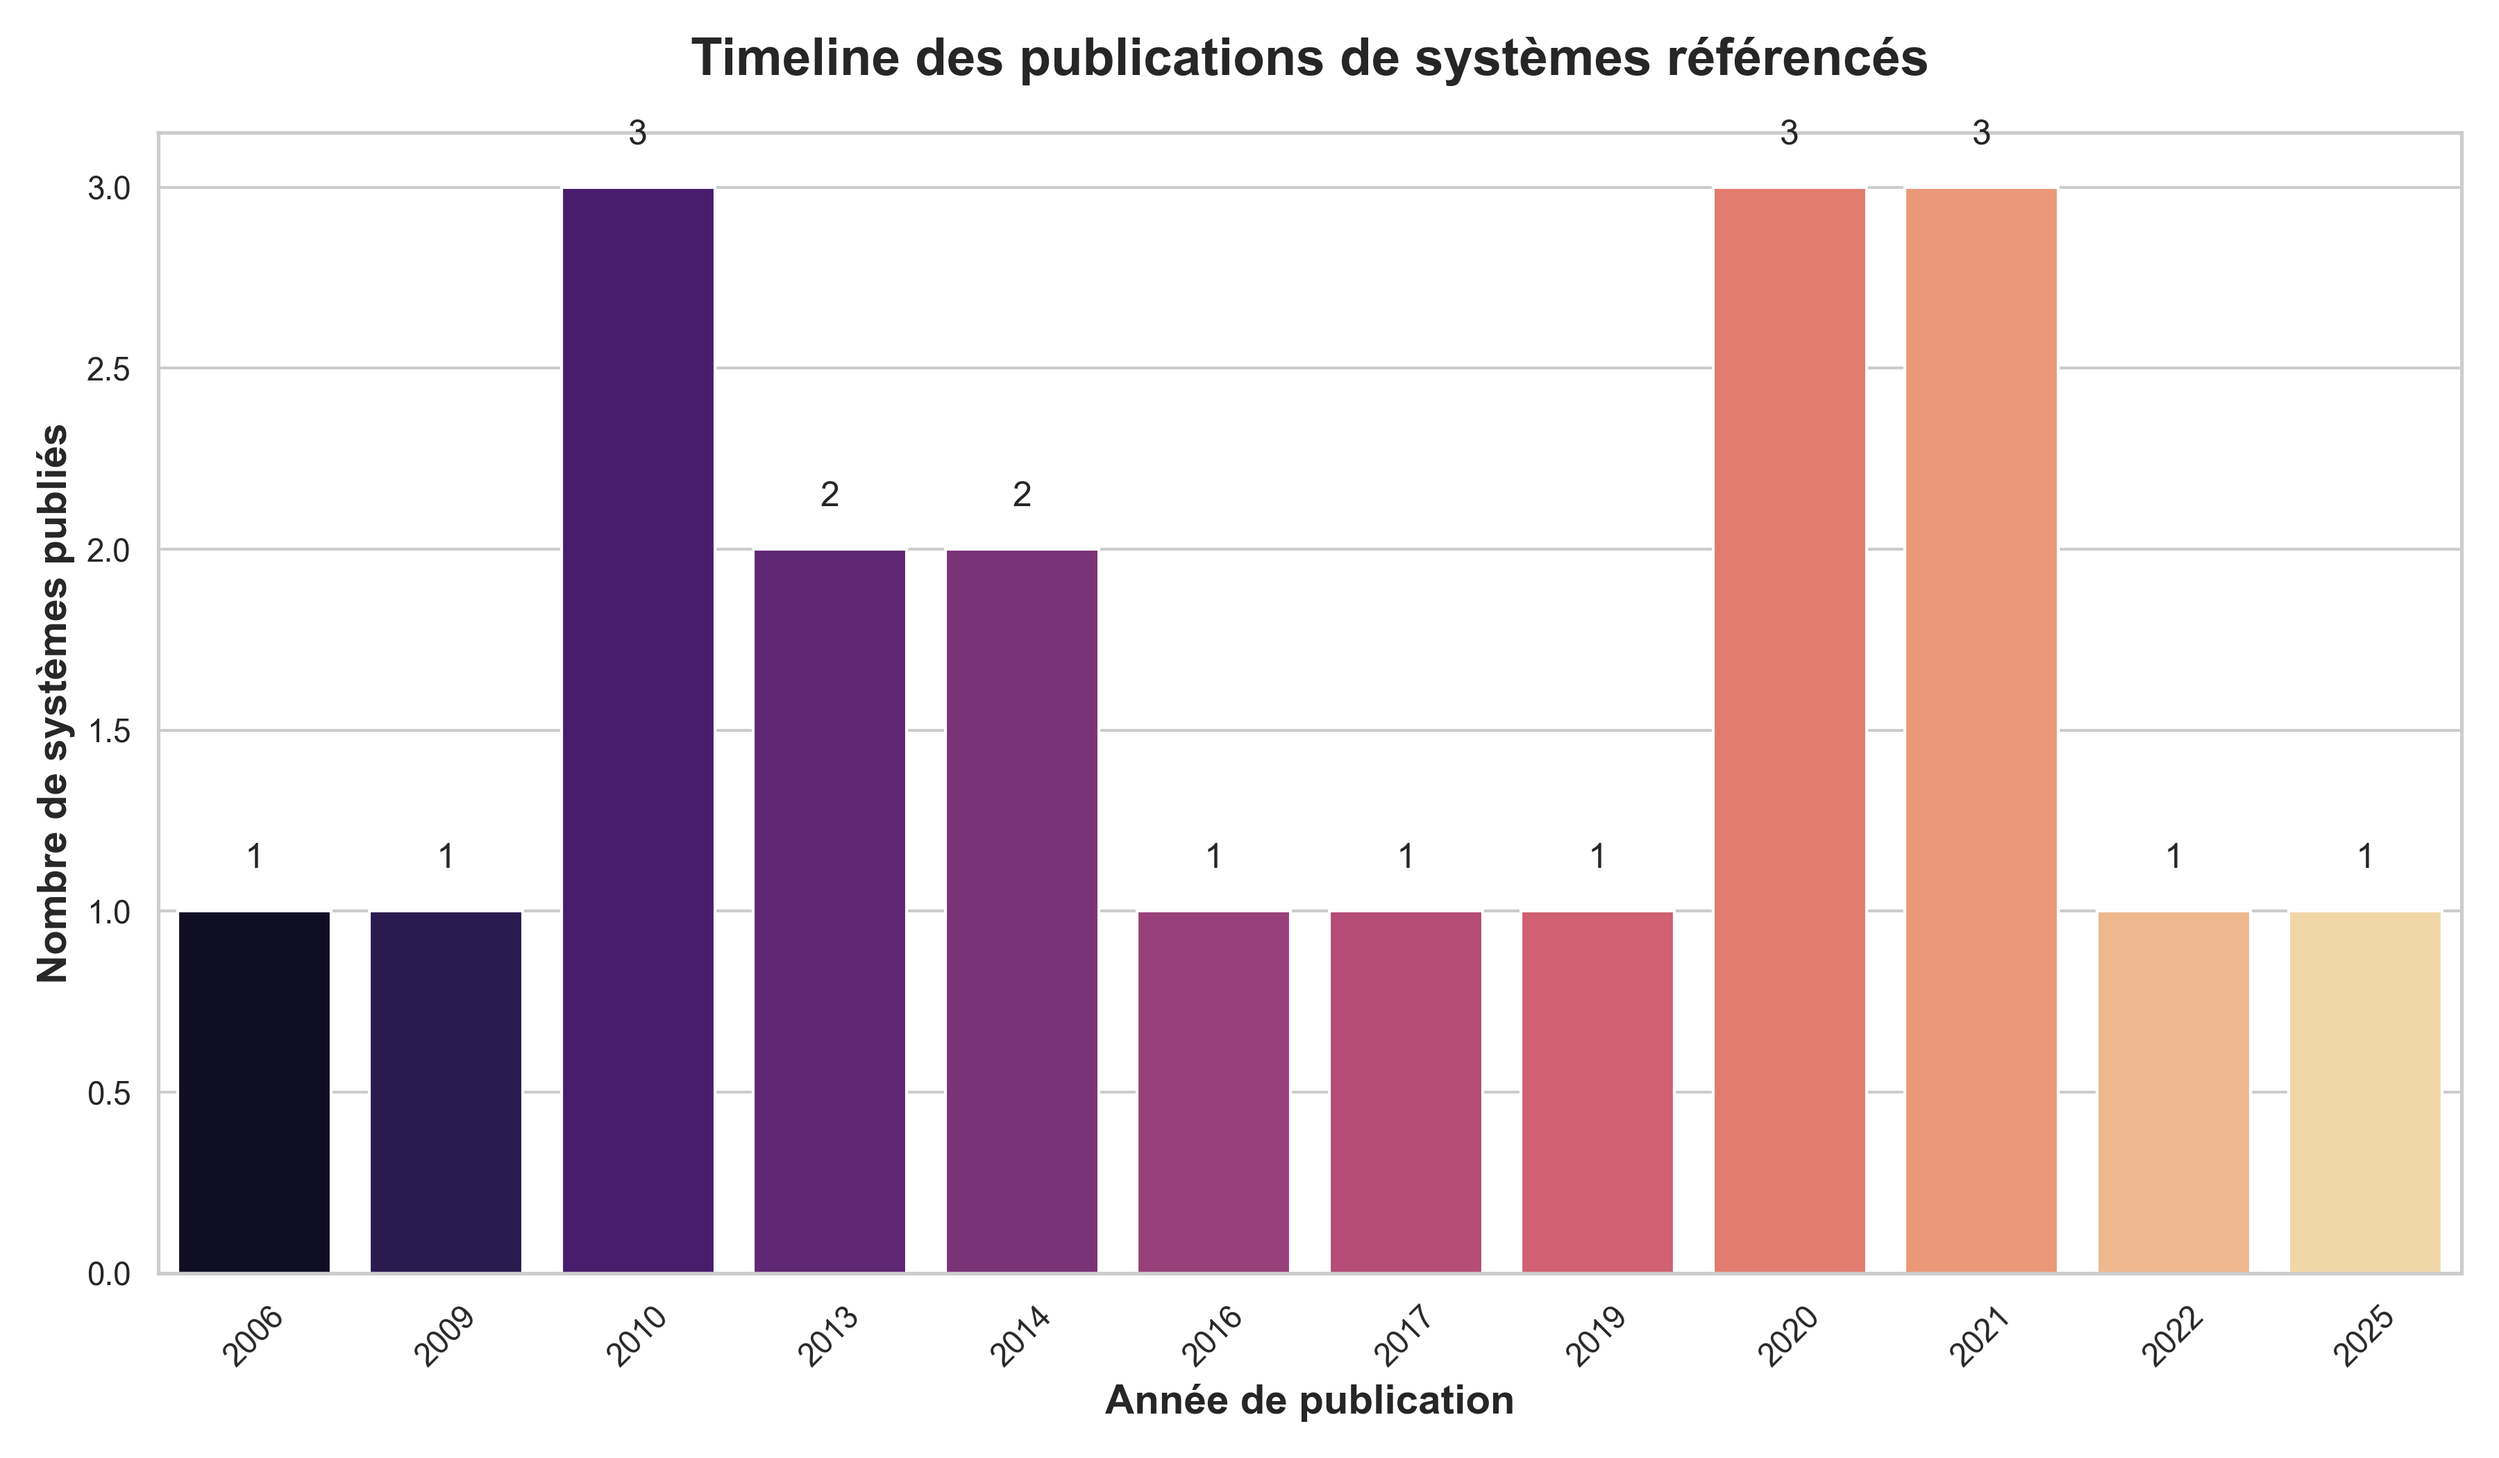
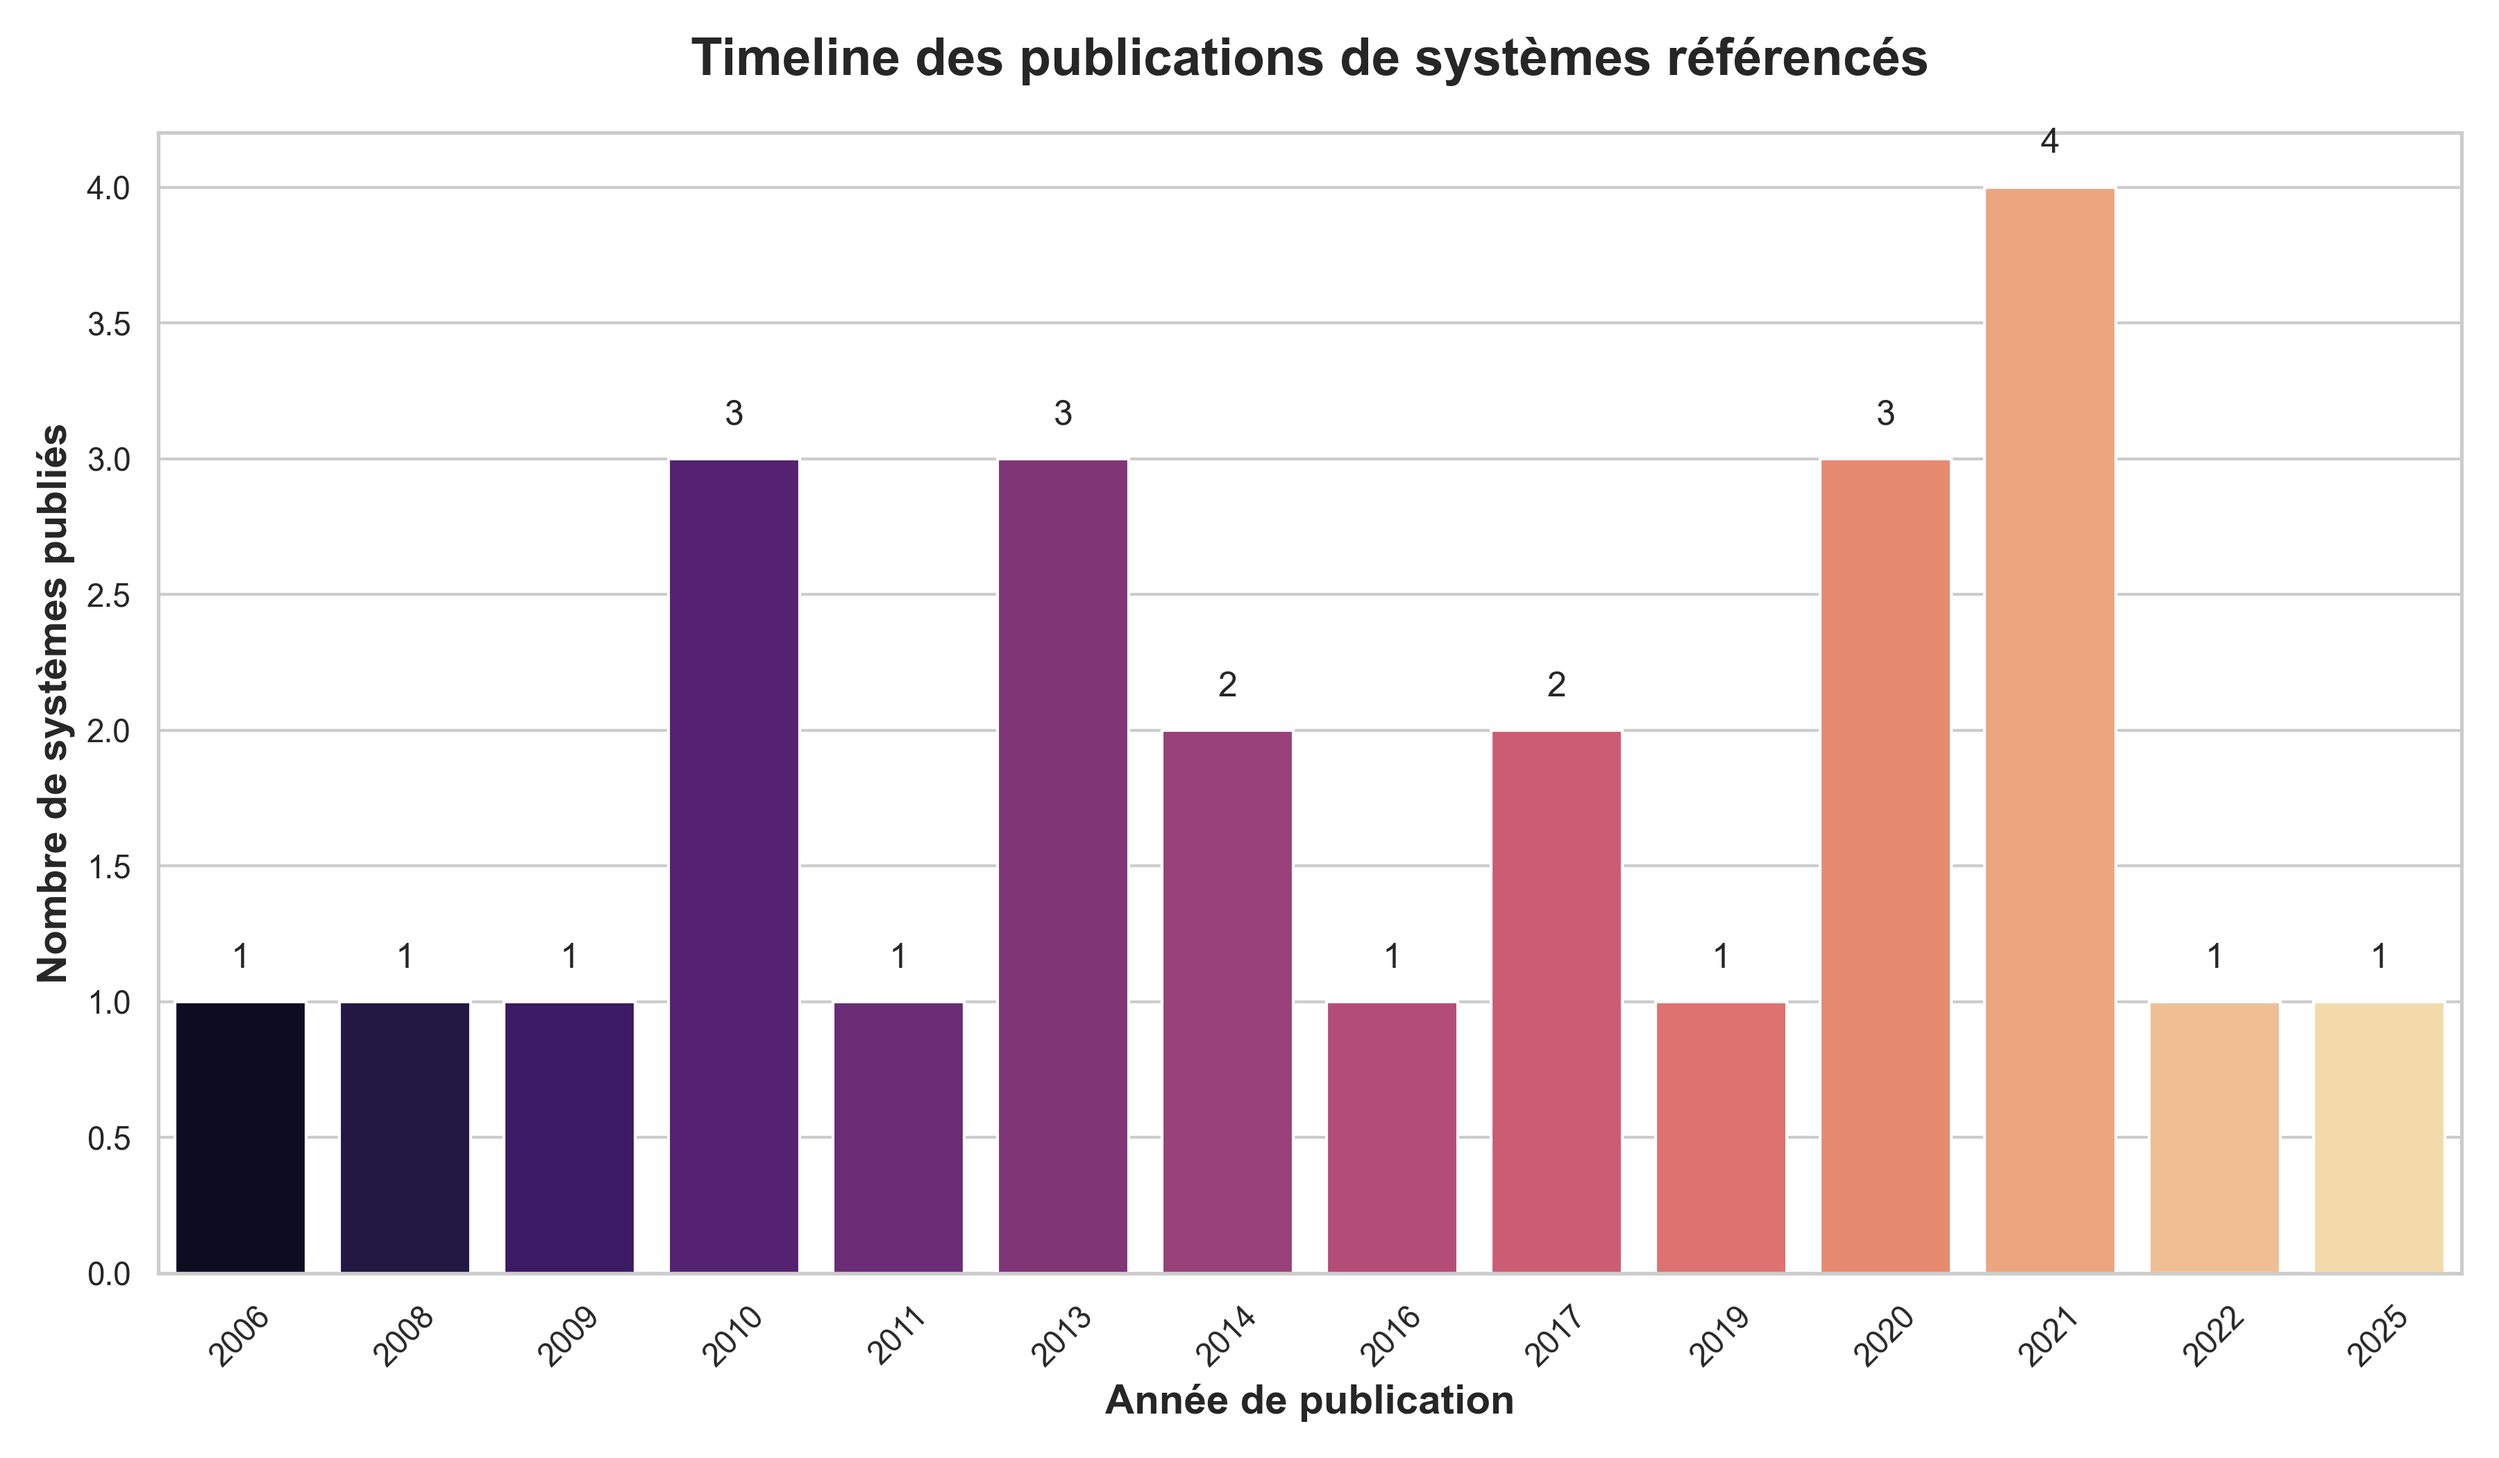
feat(data): +5 verified entries with provenance (HP urea, AKG, succinate, bicarbonate, NV in vivo)

diff --git a/QC_REPORT.md b/QC_REPORT.md
@@ -1,15 +1,15 @@
 # 🔍 Rapport de Contrôle Qualité — Atlas des Qubits Biologiques v1.2
 
-**Date** : 2025-10-22 21:55
+**Date** : 2025-10-23 01:02
 **Fichier** : `biological_qubits.csv`
 
 ## 📊 Statistiques
 
-- **Total systèmes analysés** : 21
+- **Total systèmes analysés** : 26
 - **❌ Erreurs bloquantes** : 0
 - **⚠ Warnings** : 3
 - **ℹ Informations** : 0
-- **✅ Systèmes sans erreur** : 21
+- **✅ Systèmes sans erreur** : 26
 
 ### ✅ Aucune erreur bloquante détectée !
 
